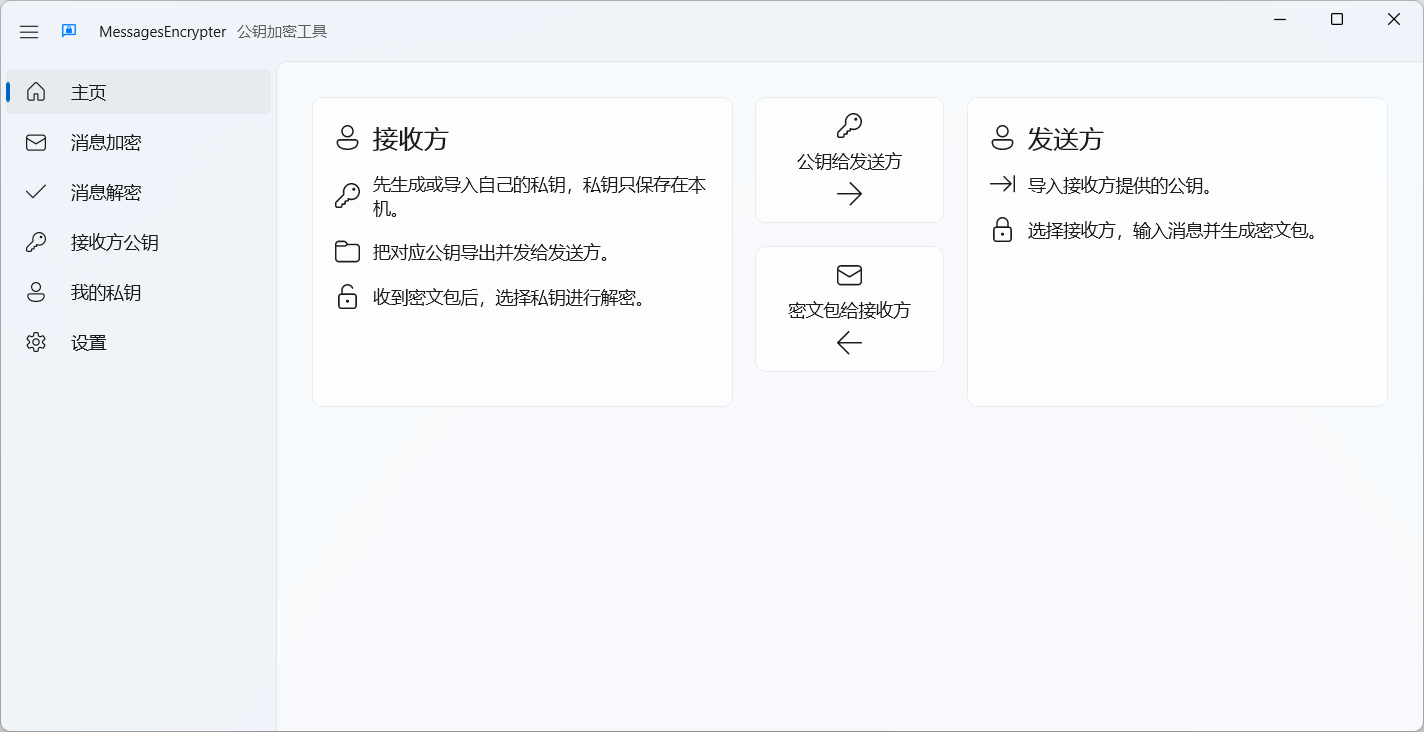
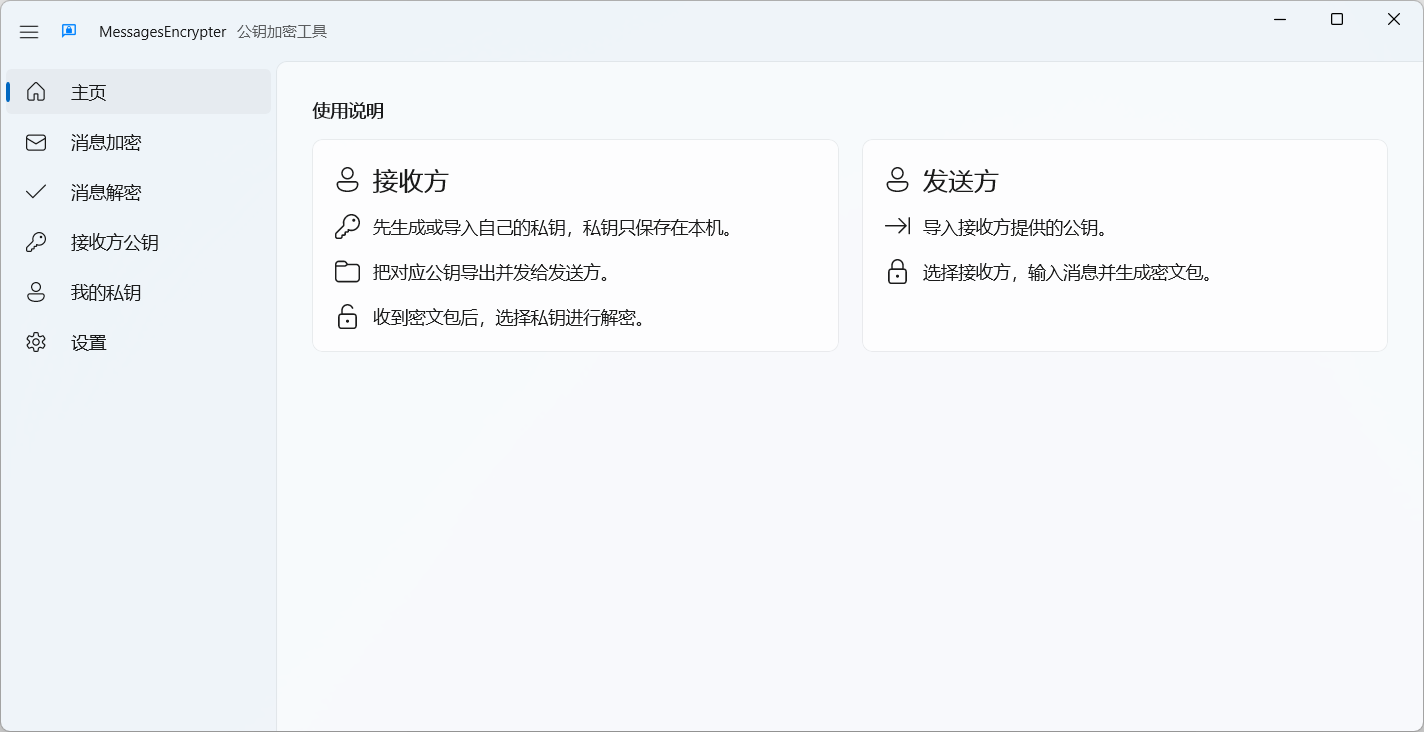
Dev (#446)
* Update guide.png

* pnpm update

* protocol

* mv

* Update protocol-v1.md

Pull request: Dev

diff --git a/.vitepress/config.ts b/.vitepress/config.ts
@@ -396,6 +396,10 @@ export default defineConfig({
         { text: '容器可视化管理', link: '/dockerseries/portainer/' },
         { text: '版本管理服务器', link: '/dockerseries/gitea/' },
         { text: '证书申请器', link: '/dockerseries/certbot/' },
+      ],
+      '/messages/': [
+        { text: 'MessagesEncrypter', link: '/messages/' },
+        { text: 'protocol-v1', link: '/messages/protocol-v1' }
       ]
     },
     //上次更新于

diff --git a/messages/protocol-v1.md b/messages/protocol-v1.md
@@ -1,0 +1,103 @@
+---
+lastUpdated: false
+description: 本文档记录 MessagesEncrypter 的标准 Base64 JSON 密文包格式。
+---
+
+# MessagesEncrypter Message Format v1
+
+本文档记录 MessagesEncrypter 的标准 Base64 JSON 密文包格式。
+
+本文档为 `ver = 1` 的正式格式定义。同一 `ver` 的字段语义应保持兼容。
+
+`ver = 1` 仅定义 RSA 消息加密格式。
+
+## 外层编码
+
+密文包面向复制和粘贴传输，外层使用 Base64 编码。
+
+解码流程：
+
+1. 对用户输入进行 `Trim()`。
+2. 按 Base64 解码得到 UTF-8 JSON。
+3. 按本文档定义解析 JSON 字段。
+
+## JSON 结构
+
+字段名使用小写短字段，减少复制传输体积。
+
+```json
+{
+  "ver": 1,
+  "ek": "<base64>",
+  "nonce": "<base64>",
+  "tag": "<base64>",
+  "ct": "<base64>"
+}
+```
+
+## 公共字段
+
+| 字段 | 类型 | 必需 | 说明 |
+| --- | --- | --- | --- |
+| `ver` | number | 是 | 消息格式版本。当前固定为 `1`。 |
+| `ek` | string | 是 | 被封装的 AES-256-GCM 会话密钥。 |
+| `nonce` | string | 是 | AES-GCM nonce，Base64 编码，原始长度 12 字节。 |
+| `tag` | string | 是 | AES-GCM authentication tag，Base64 编码，原始长度 16 字节。 |
+| `ct` | string | 是 | AES-GCM ciphertext，Base64 编码。 |
+
+## 算法
+
+- 使用接收方 RSA 公钥通过 OAEP-SHA256 封装随机生成的 AES-256-GCM 会话密钥。
+- 使用 AES-256-GCM 加密 UTF-8 明文。
+
+字段约束：
+
+| 字段 | 说明 |
+| --- | --- |
+| `ek` | 必须存在。内容为 RSA-OAEP-SHA256 加密后的 32 字节 AES 会话密钥，Base64 编码。 |
+
+## AES-GCM
+
+所有算法最终都使用 AES-256-GCM 加密正文。
+
+| 参数 | 值 |
+| --- | --- |
+| Key length | 32 bytes |
+| Nonce length | 12 bytes |
+| Tag length | 16 bytes |
+| Plaintext encoding | UTF-8 |
+| AAD | 无 |
+
+`ver = 1` 暂不启用 AAD。`ver`、`ek`、`nonce` 等字段被篡改时，通常会在字段校验、RSA-OAEP 解封装或 AES-GCM 认证阶段失败。
+
+## 示例
+
+### RSA
+
+```json
+{
+  "ver": 1,
+  "ek": "BASE64_RSA_ENCRYPTED_AES_KEY",
+  "nonce": "BASE64_12_BYTE_NONCE",
+  "tag": "BASE64_16_BYTE_TAG",
+  "ct": "BASE64_CIPHERTEXT"
+}
+```
+
+## 解密校验要求
+
+解密时必须进行以下校验：
+
+1. `ver` 必须等于 `1`。
+2. 密文包必须提供 `ek`、`nonce`、`tag`、`ct`。
+3. `ek`、`nonce`、`tag`、`ct` 必须是合法 Base64。
+4. `nonce` 解码后必须为 12 字节。
+5. `tag` 解码后必须为 16 字节。
+6. 未知字段应忽略，不应导致解密失败。
+7. AES-GCM 认证失败时，必须统一视为解密失败。
+
+## 修订记录
+
+| 日期 | 版本 | 说明 |
+| --- | --- | --- |
+| 2026-05-31 | v1 final | 定稿 RSA Base64 JSON 结构。 |